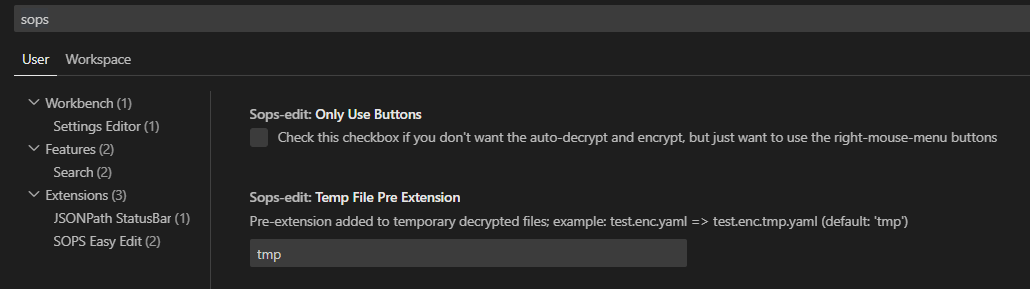
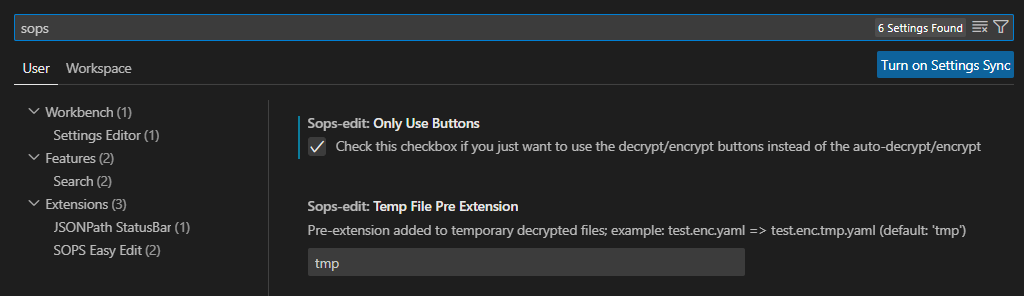
docs: release prep

diff --git a/README.md b/README.md
@@ -43,22 +43,30 @@ This extension adds the following event listeners:
 
 - `onDidCloseTextDocument`
   - Checks for every closed document if it is a decrypted TMP file, and if so, deletes it.
+  
+- `onDidChangeActiveTextEditor`
+  - Check if the currently active text editor is a SOPS encrypted file, and if so, adds `Decrypt` and `Encrypt` buttons to its top-right editor menu.
+
+### Editor menu buttons
+
+![Decrypt encrypt](https://raw.githubusercontent.com/shipitsmarter/vscode-sops-edit/main/img/editor_decrypt_encrypt.png)
+
+This extension adds the following buttons to the top-right editor menu of every SOPS encrypted file `*`:
+- `Decrypt`
+  - Decrypts the file in-place
+- `Encrypt`
+  - Encrypts the file in-place
 
 
+`*` I.e., any file that satisfies any of the combinations of `.sops.yaml` file paths and their `path_regex` conditions.
 ### Right-mouse buttons
 
-![Buttons](https://raw.githubusercontent.com/shipitsmarter/vscode-sops-edit/main/img/buttons.png)
+![Right-mouse-menu](https://raw.githubusercontent.com/shipitsmarter/vscode-sops-edit/main/img/sops_edit_directly.png)
 
-This extension adds the following three buttons to any `yaml`/`yml`/`json`/`env`/`ini`/`txt` file.
+This extension adds the following right-mouse-menu button to any `yaml`/`yml`/`json`/`env`/`ini`/`txt` file:
 
 -  `SOPS: edit directly`
    - Allows you to see and edit the SOPS encrypted file directly, without the extension closing it immediately (which is the new 'normal' behaviour).
-
-- `SOPS: decrypt in-place`
-  - Decrypts the selected file in-place (if it matches the any of the SOPS regex conditions).
-
-- `SOPS: encrypt in-place`
-  - Encrypts the selected file in-place (if it matches the any of the SOPS regex conditions).
 
 ### Settings 
 
@@ -69,7 +77,7 @@ This extension adds the following settings:
 - `Temp File Pre Extension`
   - Allows you to change the default `tmp` pre-extension to something different
 - `Only Use Buttons`
-  - Allows you to not have the auto-decrypt and encrypt done every time, but only use the right-mouse-menu buttons
+  - Allows you to not get the auto-decrypt and encrypt behaviour, but only use the decrypt/encrypt buttons instead
 
 
 ## Limitations

diff --git a/CHANGELOG.md b/CHANGELOG.md
@@ -1,12 +1,16 @@
 # Change Log
 
-# 0.0.4
+## 0.0.5
+- Removed right-mouse-menu `decrypt in-place`, `encrypt in-place` buttons
+- Added top-right editor menu buttons `Decrypt` and `Encrypt` to all SOPS encrypted files
+
+## 0.0.4
 - Removed terminal use, instead using `child_process` package to handle shell commands
 - Now shows a nice vscode-native Error message when decryption/encryption cannot happen for some reason
 - Added `decrypt in-place` and `encrypt in-place` right-mouse-menu buttons
 - Added setting `Only Use Buttons`
 
-# 0.0.3
+## 0.0.3
 - Bugfixes
   - No longer multiple encryption/decryption terminals opening for a single file
   - When editing an encrypted file directly, closing it and then opening again 'normally', it now opens the decrypted TMP version again
@@ -16,7 +20,6 @@
     - And now nicely disposed
 - Backend
   - Heavy refactoring
-
 
 ## 0.0.2
 Initial release
